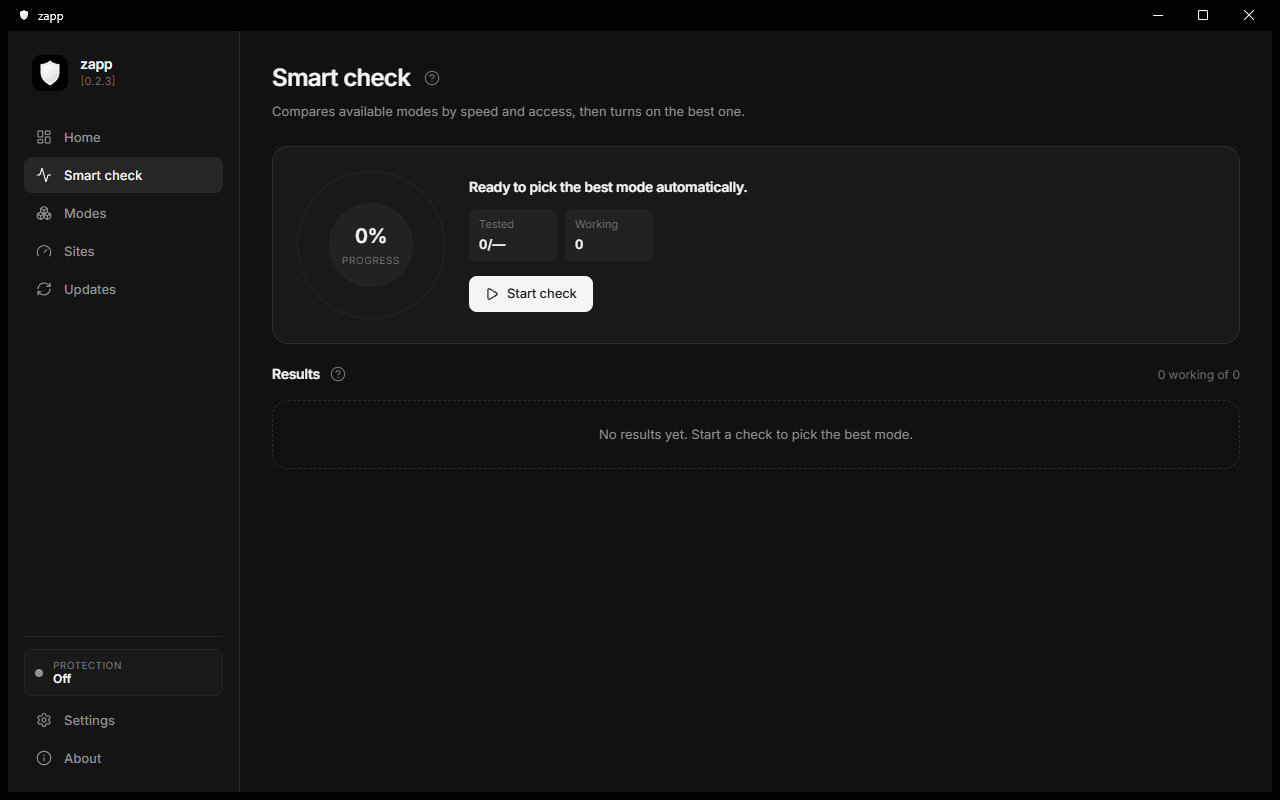
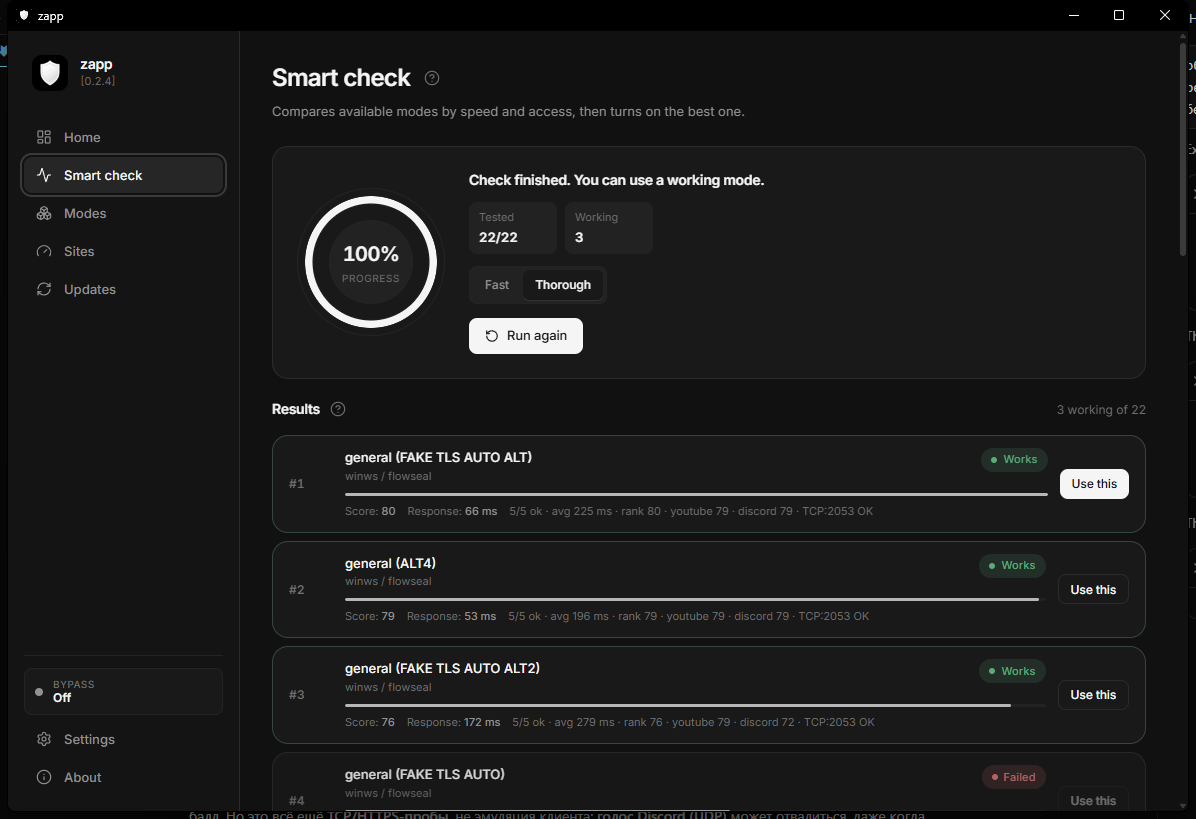
Document 0.2.4: README, release notes, and fresh UI screenshots.
Refresh EN/RU readmes for Bypass and faster Smart check, add RELEASE_0.2.4.md with hashes, and reshoot Home through Settings.

diff --git a/README.md b/README.md
@@ -14,23 +14,24 @@ Run a DPI-bypass strategy for YouTube and Discord without a console window.
 
 [English](README.md) · [Русский](README.ru.md) · [Releases](https://github.com/krwg/zapp/releases)
 
-<!-- Screenshots still show pre-0.2.4 UI ("Protection"); reshoot before the next GitHub release. -->
 <img src="docs/screenshots/01-overview.png" alt="zapp Home" width="860" />
 
 </div>
 
 I made zapp because I was tired of launching BAT files with a console window you shouldn’t close, guessing which Flowseal strategy fits your ISP, and babysitting `winws` by hand.
 
-zapp wraps zapret and the [Flowseal strategy pack](https://github.com/Flowseal/zapret-discord-youtube) in a small Tauri app. Press Start, approve UAC once, and `winws` runs hidden in the background.
+zapp wraps zapret and the [Flowseal strategy pack](https://github.com/Flowseal/zapret-discord-youtube) in a small Tauri app. Press Start on the **Bypass** card, approve UAC once, and `winws` runs hidden in the background.
 
-Smart check tries each strategy against YouTube and Discord, including the Discord gateway and `discord.media` ports, and prefers one that passes both. The Sites page keeps checking YouTube, Discord and any hosts you add. The app, the engine and the strategies update separately. The interface comes in English and Russian, with light and dark themes, and the app can live in the tray.
+**Smart check** (Fast by default, Thorough optional) tries strategies against YouTube and Discord — gateway plus `discord.media` ports — and turns on one that passes both. From **0.2.4** the loop is much faster (one env check per run, ToolHelp instead of `tasklist` spam, DNS once, parallel media ports) and cancel/restart restores the previous mode cleanly. Home keeps site cards grey until a fresh probe; stale “Available” from days ago no longer looks like live access.
+
+The app, engine and strategies update separately. English and Russian UI, light/dark themes, tray support.
 
 zapp is not a VPN. Your IP stays visible and nothing is encrypted; the only thing that changes is how your packets look to DPI. Check that this is legal where you live.
 
 ## Install
 
 1. Download `zapp_*_x64-setup.exe` from [Releases](https://github.com/krwg/zapp/releases/latest) and install it.
-2. Open zapp, press **Start**, approve the UAC prompt.
+2. Open zapp, press **Start** on Bypass, approve the UAC prompt.
 3. Wait while the engine pack downloads, then run **Smart check**.
 
 Windows 10/11 x64. Admin rights are needed once, to start the helper.
@@ -49,7 +50,7 @@ Antivirus and SmartScreen sometimes flag WinDivert-based tools, because a packet
 
 Things I’d tell a friend before they install:
 
-- As of **0.2.3**, Smart check requires both YouTube and Discord (gateway + `discord.media` on Flowseal ports), not one blended score. It still only does **TCP/HTTPS probes**, not a real Discord client — **voice (UDP)** can fail while the Sites cards stay green.
+- As of **0.2.3+**, Smart check requires both YouTube and Discord (gateway + `discord.media` on Flowseal ports), not one blended score. It still only does **TCP/HTTPS probes**, not a real Discord client — **voice (UDP)** can fail while the Sites cards stay green.
 - Less often than before, but it happens: a high-scoring mode can still feel worse than a hand-picked Flowseal BAT. If Discord/YouTube misbehave, open **Modes** and activate one manually.
 - First launch needs GitHub access to download the engine pack. There is no offline pack picker in the UI yet.
 - Closing the window hides to the tray by default; the process is still running. Quit from the tray before reinstalling, or the setup cannot replace `zapp.exe`.
@@ -57,7 +58,7 @@ Things I’d tell a friend before they install:
 
 ## If something doesn't work
 
-If SmartScreen blocks the installer, choose *More info → Run anyway*, or verify the SHA256 first. If no strategy passes Smart check, close other zapret, VPN or DPI tools and run it again.
+If SmartScreen blocks the installer, choose *More info → Run anyway*, or verify the SHA256 first. If no strategy passes Smart check, close other zapret, VPN or DPI tools and run it again. If a Flowseal `.bat` left `winws.exe` running, stop it first — Smart check will tell you.
 
 To remove zapp completely, uninstall it and accept the cleanup prompt. By hand, delete `%APPDATA%\app.zapp.desktop` and `%LOCALAPPDATA%\zapp`.
 

diff --git a/RELEASE_0.2.4.md b/RELEASE_0.2.4.md
@@ -1,0 +1,63 @@
+## zapp 0.2.4
+
+Faster Smart check, safer cancel/restore, clearer Bypass UI, and quieter Home site status.
+
+### Upgrading from 0.2.3
+
+1. Install **`zapp_0.2.4_x64-setup.exe`** (NSIS), or let Application auto-update download it and confirm UAC.
+2. Quit from the tray if the installer cannot replace `zapp.exe`.
+3. Open Home — site cards stay grey until a fresh check; run **Smart check** (Fast is the default).
+
+### Fixed
+
+- **Diagnostics race on cancel/restart.** One worker at a time with `run_id`; cancel restores the previous mode/engine state and does not emit Completed over Cancelled.
+- **Cancelled runs no longer apply a profile** after the strategy loop (Analyzing phase respects cancel).
+- **Best-strategy start errors** report Failed (with fallback by score) instead of Completed while `winws` is still stopped.
+- **Portable zip update** waits for `zapp.exe` to exit, stops `winws`, checks `xcopy`, then relaunches.
+- **Orphan `winws`** from a previous helper session is cleaned before env-preflight, so it is not mistaken for a foreign Flowseal process.
+- **No-network Smart check** stops early with a clear DNS/network message and restores previous state instead of scoring every strategy as zero.
+- **Late `winws` crash during probes** is marked as startup-failed, not as “weak services”.
+
+### Added
+
+- **Faster Smart check path:** ToolHelp instead of `tasklist`/`taskkill` on the hot path; env-preflight once per run; short poll instead of long fixed sleeps; DNS once per run; IPv4-first probes; HTTPS without redundant TCP; parallel Discord media ports; Fast / Thorough modes.
+- **Queued Smart check** when a run is still finishing — the latest start is kept and begins after cancel cleanup (no silent drop, no UI freeze on join).
+- **Bypass wording** across Home, sidebar, tray, toasts, and hints (EN/RU) — avoids “Protection” sounding like antivirus/VPN.
+- **Home Current mode** shows a short name + status line; technical details stay collapsed; first-run CTA to open Smart check.
+- **Stale Sites status:** when bypass is off or a probe is older than a few minutes, cards show grey **Not checked** (and a silent Home refresh at most every ~45s, never during Smart check).
+
+### Changed
+
+- Manual Smart check no longer prefers the previous strategy first (that hid UDP/voice failures behind a passing TCP check). Prefer-previous remains available for background re-check.
+- Sidebar bypass chip is hidden on Home (the large Bypass card is enough).
+- Session time on the Bypass card is hidden while bypass is off.
+- Repair renamed to **Reset engine**.
+
+### Known limitations
+
+- Probes are still **TCP/HTTPS**, not a real Discord client. **Voice (UDP)** can fail while Sites cards look green.
+- A high score can still feel worse than a hand-picked Flowseal mode on some ISPs — use **Modes** manually if needed.
+- Engine pack is downloaded from GitHub on first run; not bundled in the installer.
+- **MSI** has no cleanup page — prefer NSIS.
+- Not a VPN; no telemetry.
+
+### Downloads
+
+| File | Notes |
+|------|-------|
+| `zapp_0.2.4_x64-setup.exe` | Recommended · NSIS · cleanup page |
+| `zapp_0.2.4_x64_en-US.msi` | Optional · no cleanup page |
+
+SHA256:
+
+```
+zapp_0.2.4_x64-setup.exe
[1 lines of base64/hex data omitted]
+
+zapp_0.2.4_x64_en-US.msi
[1 lines of base64/hex data omitted]
+```
+
+Engine / strategies: [bol-van/zapret](https://github.com/bol-van/zapret) · [Flowseal/zapret-discord-youtube](https://github.com/Flowseal/zapret-discord-youtube)
+
+Issues: https://github.com/krwg/zapp/issues
